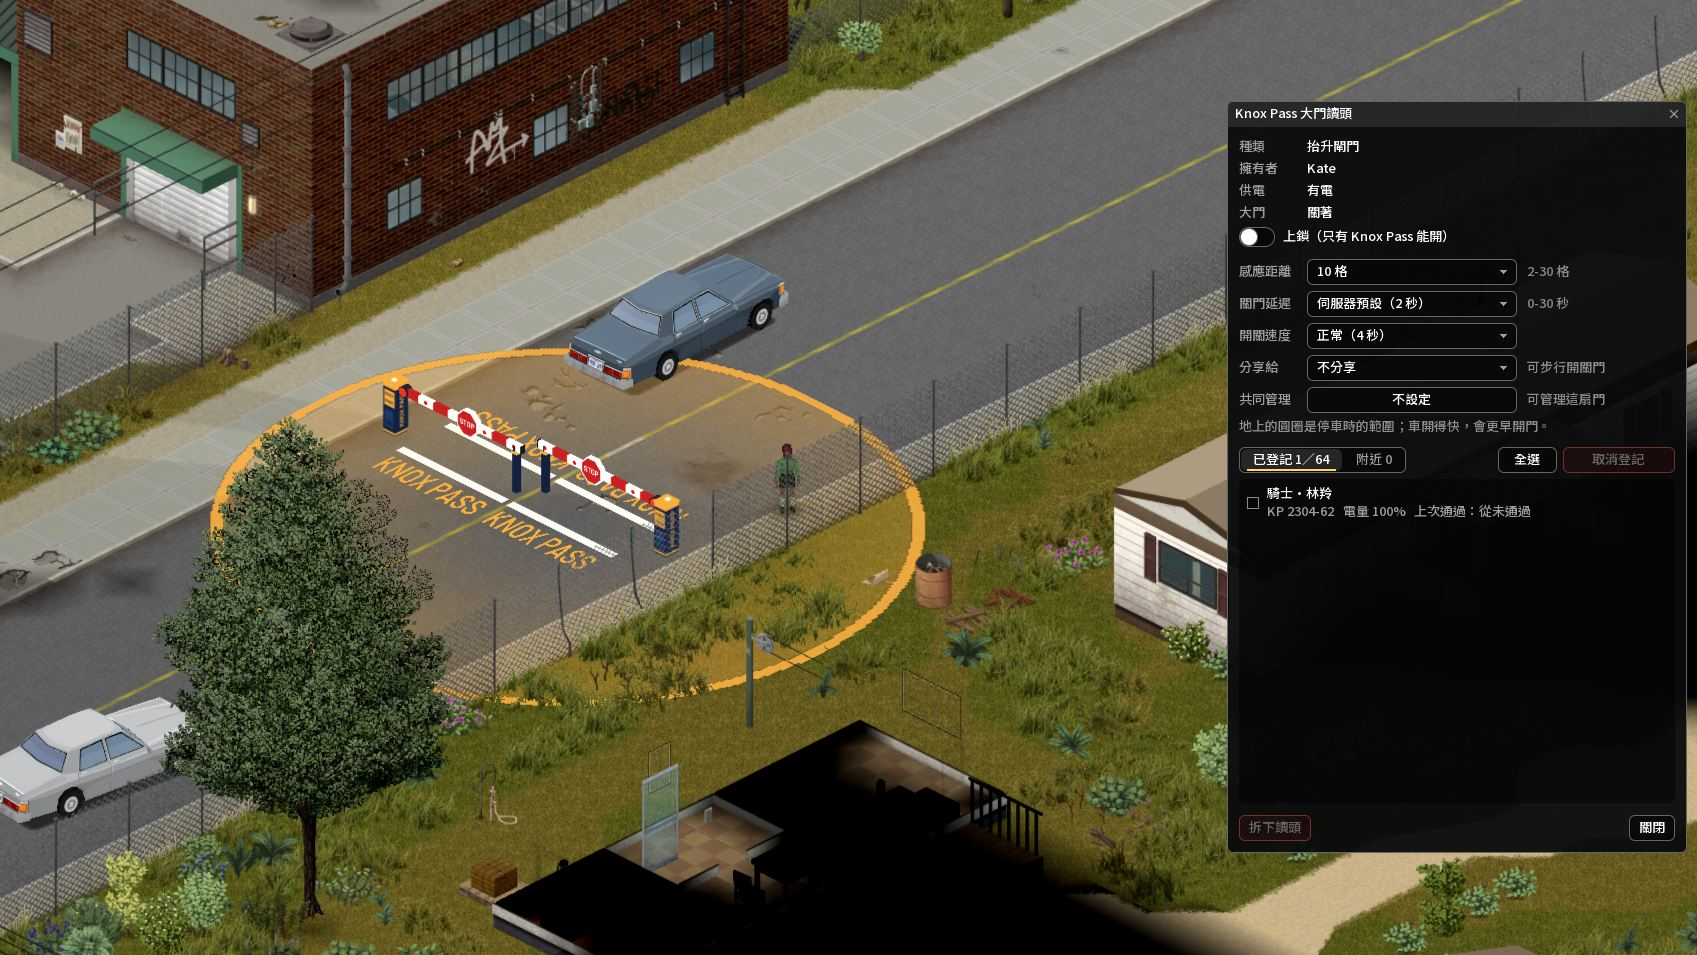
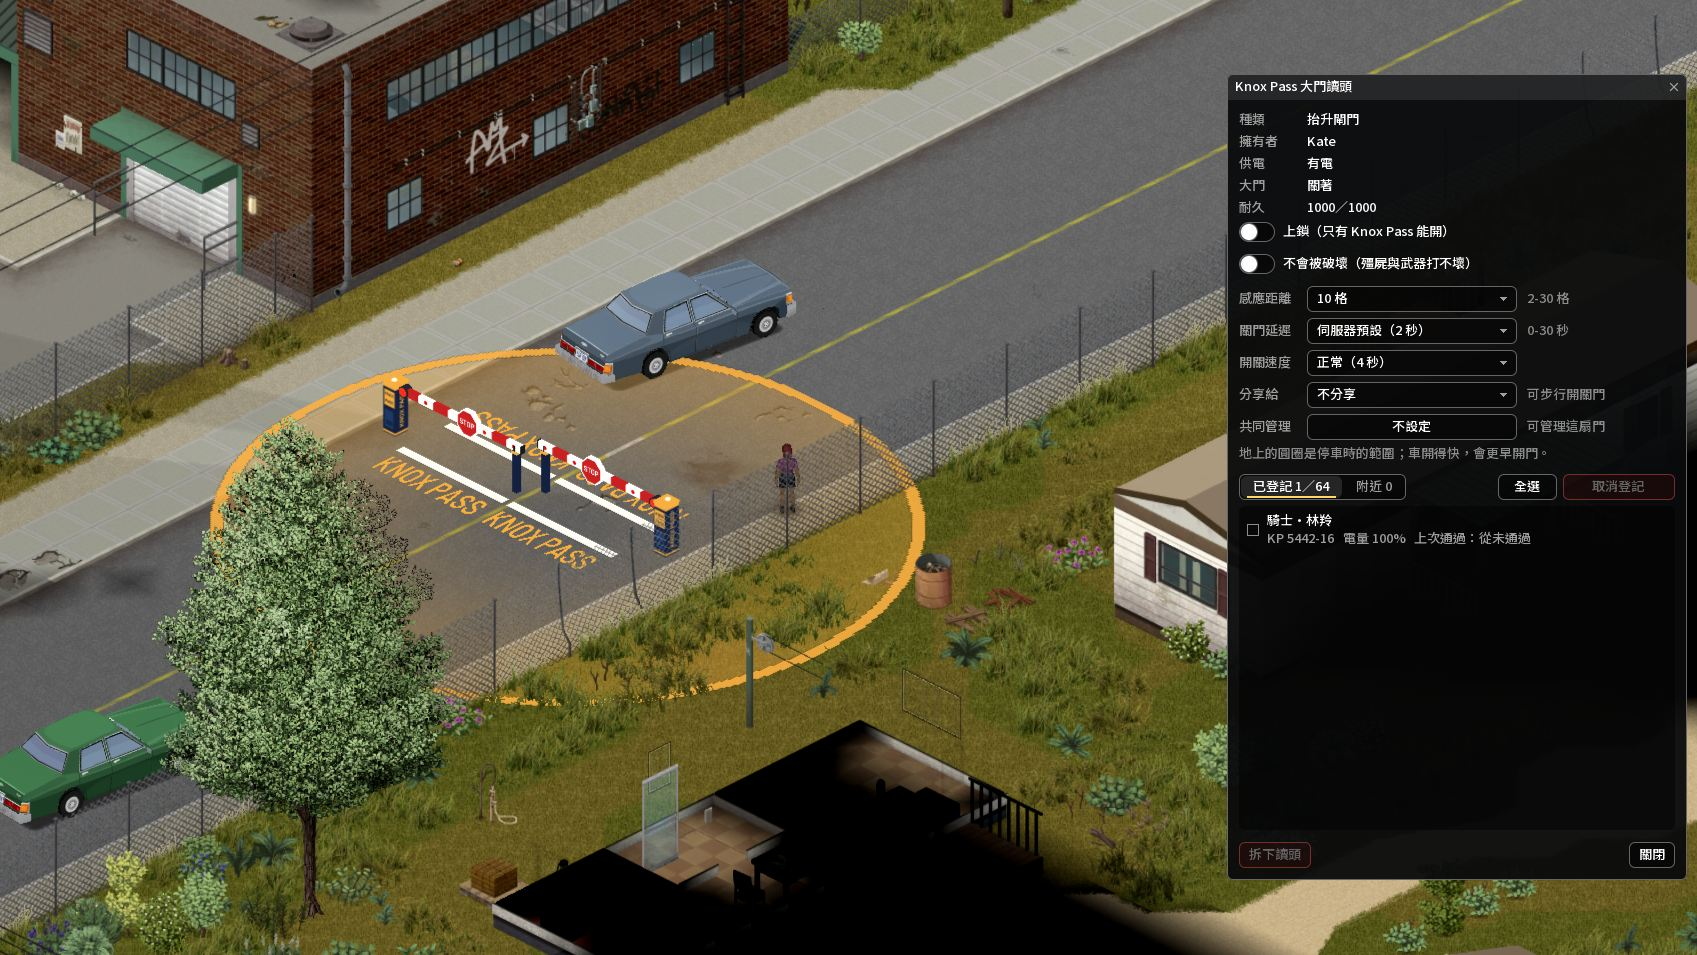
發布 42.21.0-0.6.0
新增：裝了讀頭的門不會被破壞（沙盒選項、管理員逐扇開關）、管理視窗顯示大門耐久（一般玩家沒有開關、耐久列有提示）。

Steam 預覽圖 05 管理視窗、15 範圍圈、09 沙盒頁中英重拍（guide-shots-mp：knoxpass-gs-CH-1019a、knoxpass-gs-EN-1019a）。workshop.txt 照簡介重產（中途加入／移除那行補上單人移除後不會被破壞的門一直打不壞）。

發版前版面 E2E 用 FR（i18n_width keys --since bcd54e6 最寬次數 FR 3、RU 2）：knoxpass-i18n-FR-1019a 這版新加的字串都過；L2 三則 Toast 6 行、L4 四個物品提示框 682–781 px 是上一版就有、這版沒動的法文字串，另修。閘門：verify_mod PASS 19、smoke harness 全部通過、gen_modcar_list／gen_colors --check OK。

diff --git a/STEAM_CHANGELOG.md b/STEAM_CHANGELOG.md
@@ -1,7 +1,8 @@
-[h1]Minidoracat Knox Pass for B42 42.21.0-0.5.1[/h1]
-[i]2026-10-15[/i]
+[h1]Minidoracat Knox Pass for B42 42.21.0-0.6.0[/h1]
+[i]2026-10-19[/i]
 
-[h3]🔧 修正[/h3]
+[h3]✨ 新增[/h3]
 [list]
-[*] [b]開關車庫門後，房子的室內判定沒跟上[/b]：牆上裝了讀頭的車庫捲門或車庫門，用右鍵開關或被會開門的殭屍打開後，遊戲還照開關前的樣子判斷房子算不算室內（門開著仍算室內，或門關好了仍算有缺口）；用 Knox Pass 開關時也可能漏掉其中幾格。現在 Knox Pass 開關當下就更新，其他方式開關的門約 5 秒內跟上；更新前已經判定錯的門，伺服器載入那一帶後會自己更正。沒裝讀頭的門照原版。
+[*] [b]裝了讀頭的門可以不會被破壞[/b]：伺服器沙盒新增「裝了讀頭的門不會被破壞」（預設關）。開啟後殭屍拍不壞、武器也打不壞，閘門的機箱與大門的門柱也一樣；殭屍照樣會拍門，拍門聲照樣會引來附近的殭屍。沙盒關著時，伺服器管理員也能在讀頭管理視窗替個別的門開啟。關掉或拆下讀頭後，門回到原本的耐久。牆壁、大鎚與火燒照原版。
+[*] [b]管理視窗顯示大門耐久[/b]：多一列「耐久」，寫最弱的那一片還剩多少、滿格多少；開了「不會被破壞」的門寫「不會被破壞」。一般玩家的滑鼠移到這一列，會說明管理員怎麼開。
 [/list]

diff --git a/CHANGELOG.md b/CHANGELOG.md
@@ -12,7 +12,7 @@
 
 格式基於 [Keep a Changelog](https://keepachangelog.com/zh-TW/1.1.0/)，版本號遵循 `{PZ版本}-{主版本}.{次版本}.{修訂}` 格式。
 
-## [Unreleased]
+## [42.21.0-0.6.0] - 2026-10-19
 
 ### 新增
 
